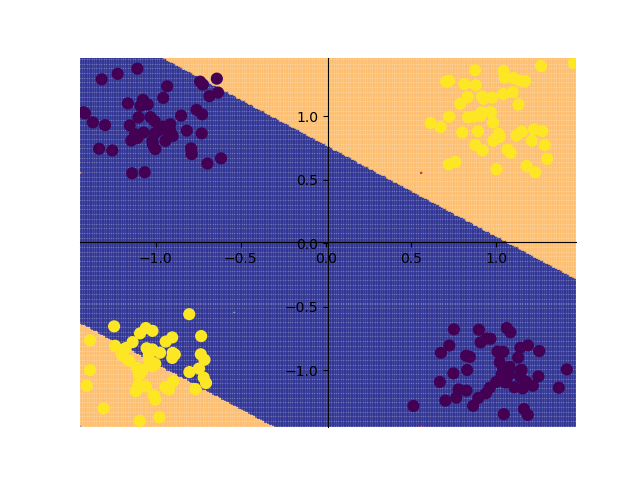
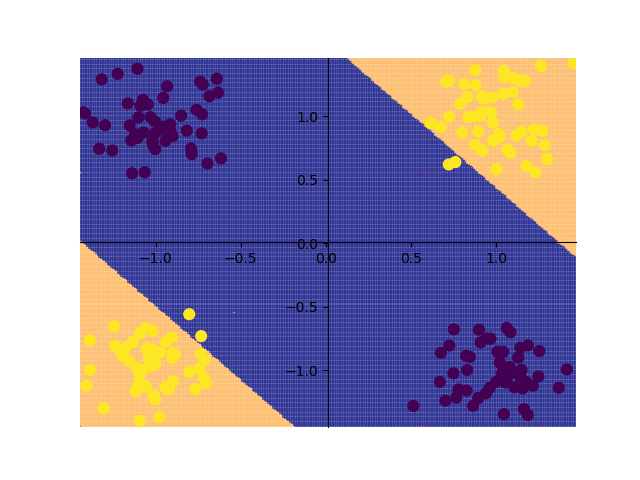
minor fix

Changed region(s): [[0.25, 0.0938, 0.9062, 0.5938], [0.125, 0.5, 0.4688, 0.9062]]

diff --git a/Project3/task3_4/__main__.py b/Project3/task3_4/__main__.py
@@ -22,7 +22,6 @@ def plot_data(x, y, neuron, figname):
     ax.yaxis.set_ticks_position('left')
     cmap = plt.get_cmap('RdYlBu')
 
-    print(cmap(0), cmap(0.5), cmap(1))
     # generate 2 2d grids for the x & y bounds
     ygrid, xgrid = np.mgrid[slice(x[1, :].min() - 0.05, x[1, :].max() + 0.05, 0.01),
                     slice(x[0, :].min() - 0.02, x[0, :].max() + 0.02, 0.01)]
@@ -44,6 +43,7 @@ def plot_data(x, y, neuron, figname):
         elif out >= 0:
             colors[indx][indy] = 1
 
+        # Had to add this values to get a a variety of colors from the cmap
         colors[0][0] = 0.9
         colors[90][90] = 0.8
         colors[200][0] = 0.3

diff --git a/Project3/task3_4/neuron.py b/Project3/task3_4/neuron.py
@@ -3,11 +3,7 @@ import numpy as np
 class Neuron():
     def __init__(self, lr_w = .005, lr_theta = .001, dim = 2):
         self.w = np.random.uniform(-1, 1, dim)[..., np.newaxis]
-        self.w = np.array([[-0.519], [0.145]])
-        print("Weight: ", self.w)
         self.theta = np.random.uniform(-1,1, 1)
-        self.theta = np.array([0.49])
-        print("Theta: ", self.theta)
 
         self.lr_w = lr_w
         self.lr_theta = lr_theta
